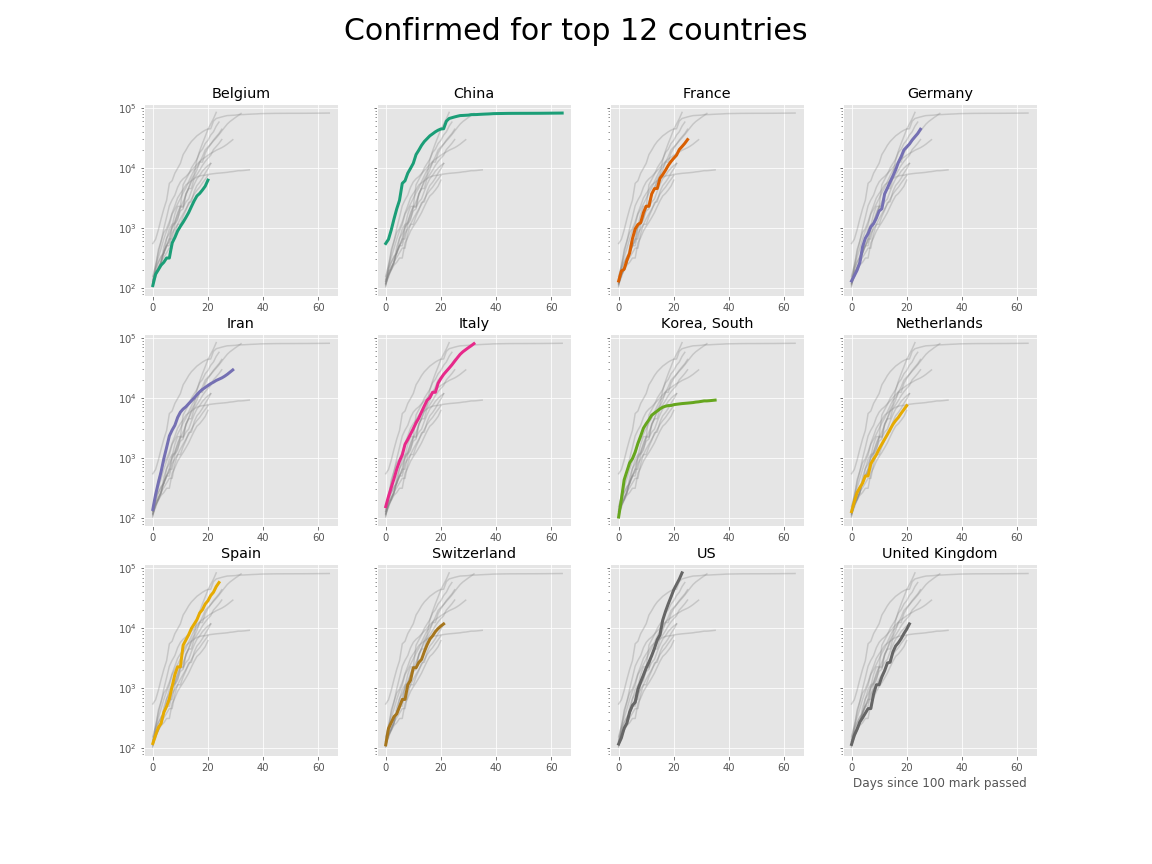
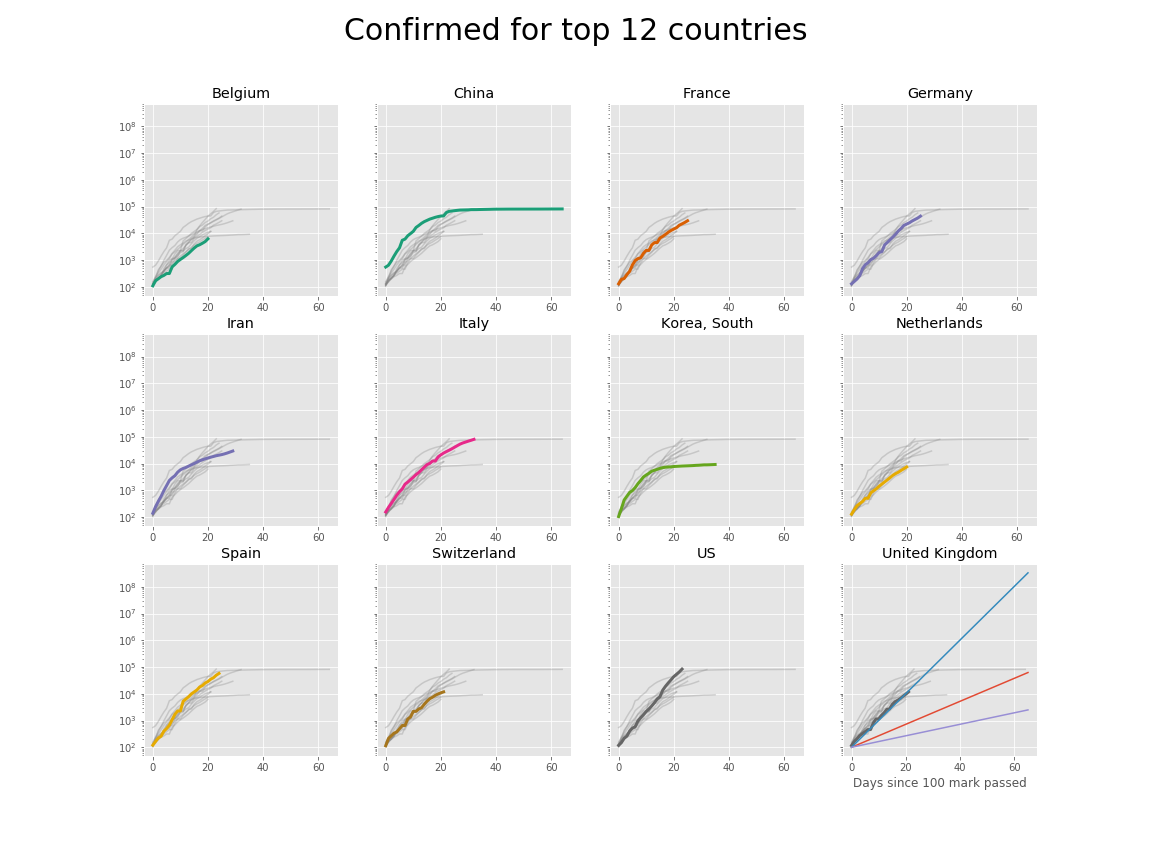
Added trial guideline plot

diff --git a/by_day_JH.py b/by_day_JH.py
@@ -99,3 +99,15 @@ dct = count_from_day_x(df, country_list)
 from_case_start = counts_to_df(dct, country_list, out_fp)
 (x, y) = small_mult_size(country_count)
 plot_mults(country_list, from_case_start, country_count, x, y, metric)
+
+
+base = np.linspace(0, len(from_case_start))
+double_in = lambda k: [100 * (2 ** (i/k)) for i in base]
+plt.plot(base, double_in(3), label="Three days")
+plt.plot(base, double_in(7), label="Week")
+plt.plot(base, double_in(14), label="Two weeks")
+plt.yscale("log")
+plt.legend()
+
+# Should get whole df, then filter on deaths, then get country list. Then
+# store country list, and use it for both filters and plots
